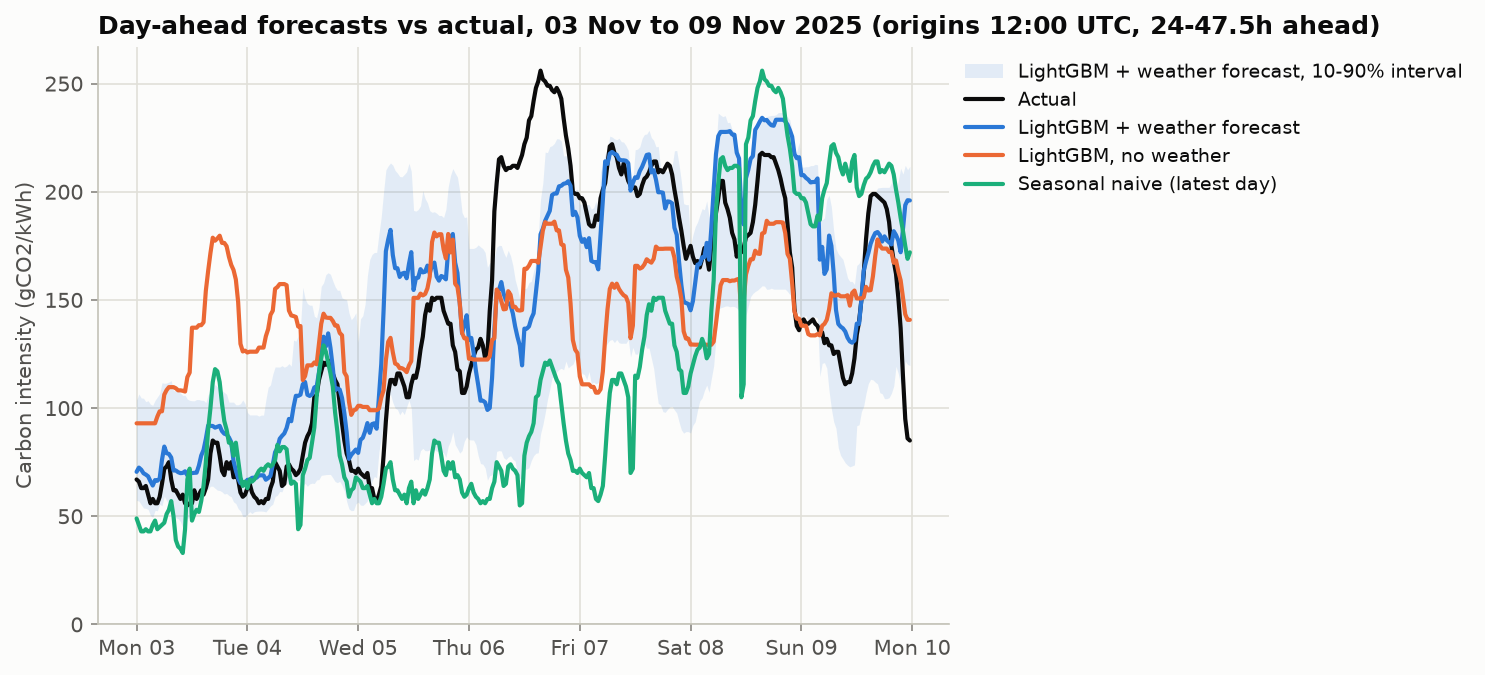
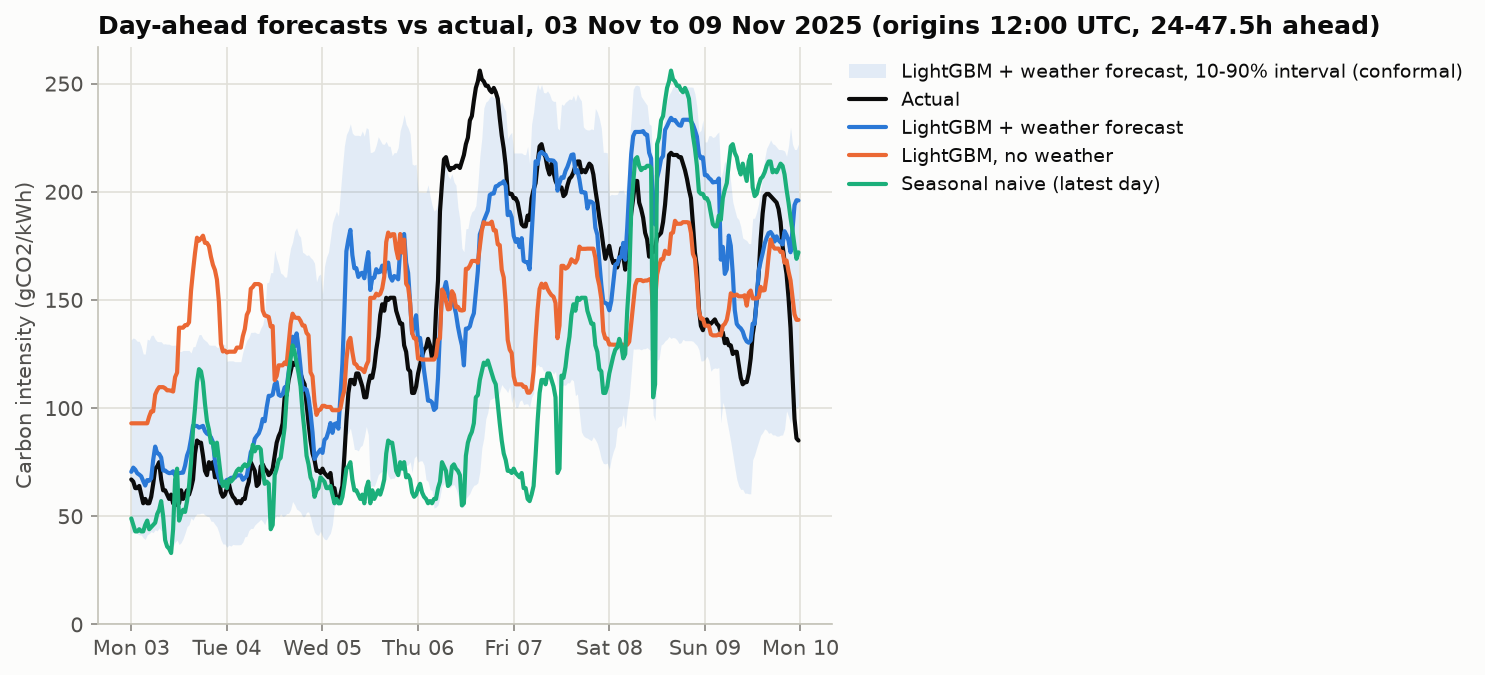
docs: update backtest results with conformal intervals

diff --git a/reports/results.md b/reports/results.md
@@ -1,6 +1,6 @@
 # Backtest results
 
-Generated 2026-09-28 14:46 UTC by `python -m carbon_forecast.evaluate` from the `backtest_results` table written by `python -m carbon_forecast.backtest`. Every number below comes from that run.
+Generated 2026-09-28 14:52 UTC by `python -m carbon_forecast.evaluate` from the `backtest_results` table written by `python -m carbon_forecast.backtest`. Every number below comes from that run.
 
 ## Set-up
 
@@ -126,15 +126,37 @@ Terciles of outturn wind share at the target time: low < 23.7%, medium 23.7-42.1
 
 ## Prediction intervals (weather-forecast model)
 
-Quantile LightGBM at the 10th and 90th percentiles, same features and settings as the point model. A well-calibrated 10-90% interval covers 80% of actuals.
+A well-calibrated 10-90% interval covers 80% of actuals. **Raw quantile**: LightGBM at the 10th and 90th percentiles, same features and settings as the point model, trained on targets up to one month before each fold. **Conformal (CQR)**: the raw band widened on both sides by the conformity-score quantile measured on that held-out month (Romano et al., 2019), which lies strictly before the fold, so no test data is used. CQR's coverage guarantee assumes exchangeable data; time series are not, so coverage here is measured, not guaranteed.
 
-| horizons | n | coverage_% | below_p10_% | above_p90_% | mean_width |
-|---|---|---|---|---|---|
-| all horizons | 70,668 | 70.1 | 15.0 | 14.9 | 81.8 |
-| 24-29.5h | 17,325 | 71.1 | 14.4 | 14.5 | 81.6 |
-| 30-35.5h | 17,313 | 70.7 | 14.6 | 14.6 | 81.8 |
-| 36-41.5h | 17,301 | 69.9 | 15.3 | 14.8 | 81.9 |
-| 42-48h | 18,729 | 68.9 | 15.5 | 15.6 | 82.1 |
+| interval | horizons | n | coverage_% | below_p10_% | above_p90_% | mean_width |
+|---|---|---|---|---|---|---|
+| raw quantile | all horizons | 70,668 | 69.8 | 15.0 | 15.2 | 81.6 |
+| raw quantile | 24-29.5h | 17,325 | 70.9 | 14.5 | 14.6 | 81.4 |
+| raw quantile | 30-35.5h | 17,313 | 70.5 | 14.7 | 14.9 | 81.6 |
+| raw quantile | 36-41.5h | 17,301 | 69.4 | 15.3 | 15.3 | 81.7 |
+| raw quantile | 42-48h | 18,729 | 68.6 | 15.4 | 16.0 | 81.8 |
+| conformal (CQR) | all horizons | 70,668 | 78.5 | 9.6 | 11.9 | 94.7 |
+| conformal (CQR) | 24-29.5h | 17,325 | 79.5 | 9.0 | 11.5 | 94.5 |
+| conformal (CQR) | 30-35.5h | 17,313 | 79.1 | 9.3 | 11.6 | 94.6 |
+| conformal (CQR) | 36-41.5h | 17,301 | 78.1 | 9.9 | 12.0 | 94.7 |
+| conformal (CQR) | 42-48h | 18,729 | 77.5 | 10.1 | 12.4 | 94.9 |
+
+Per fold: calibration window, the adjustment it produced, and the coverage achieved on the fold's test month.
+
+| fold | calibration_window | n_calibration | calibration_raw_coverage_% | adjustment_gco2 | test_coverage_raw_% | test_coverage_conformal_% |
+|---|---|---|---|---|---|---|
+| 2025-10 | 2025-09 | 5,608 | 73.9 | 3.4 | 48.2 | 55.4 |
+| 2025-11 | 2025-10 | 5,804 | 48.5 | 17.1 | 74.1 | 87.7 |
+| 2025-12 | 2025-11 | 5,608 | 73.8 | 6.0 | 67.5 | 77.1 |
+| 2026-01 | 2025-12 | 5,804 | 71.6 | 6.6 | 79.1 | 85.9 |
+| 2026-02 | 2026-01 | 5,804 | 78.6 | 0.9 | 62.6 | 63.5 |
+| 2026-03 | 2026-02 | 5,216 | 65.6 | 11.7 | 69.5 | 86.9 |
+| 2026-04 | 2026-03 | 5,804 | 69.9 | 6.6 | 71.0 | 78.5 |
+| 2026-05 | 2026-04 | 5,608 | 70.7 | 7.7 | 73.0 | 84.5 |
+| 2026-06 | 2026-05 | 5,804 | 74.2 | 3.3 | 65.7 | 71.9 |
+| 2026-07 | 2026-06 | 5,608 | 66.2 | 9.2 | 74.9 | 89.0 |
+| 2026-08 | 2026-07 | 5,804 | 75.9 | 2.6 | 78.4 | 81.9 |
+| 2026-09 | 2026-08 | 5,800 | 76.7 | 2.2 | 73.9 | 78.8 |
 
 ## Feature attribution (weather-forecast model, final fold)
 
